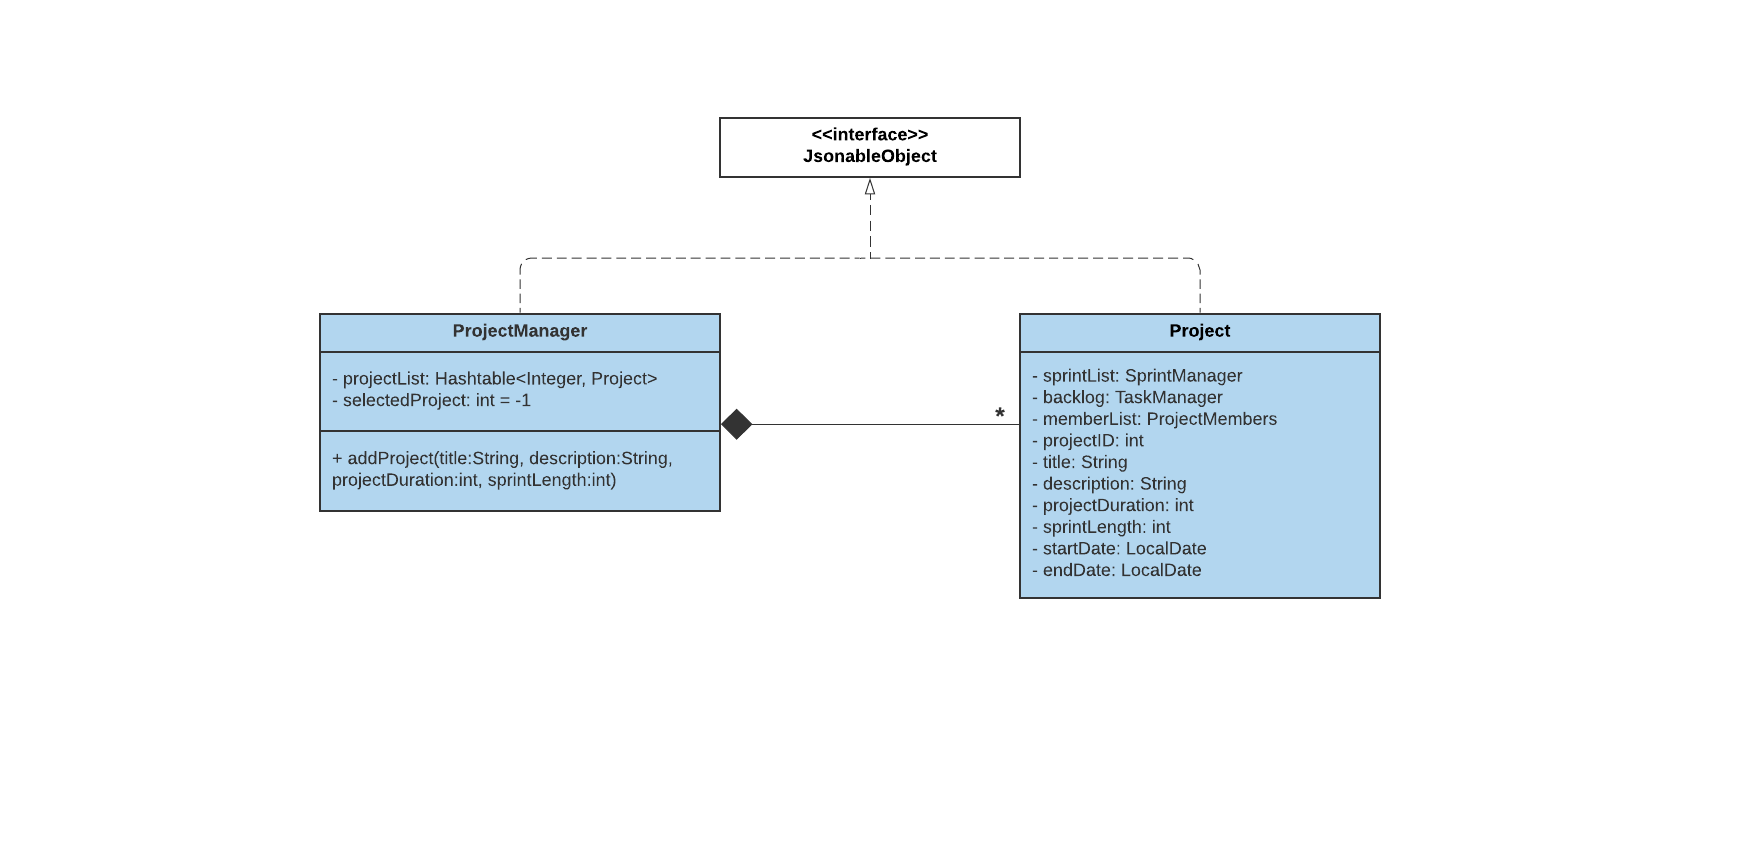
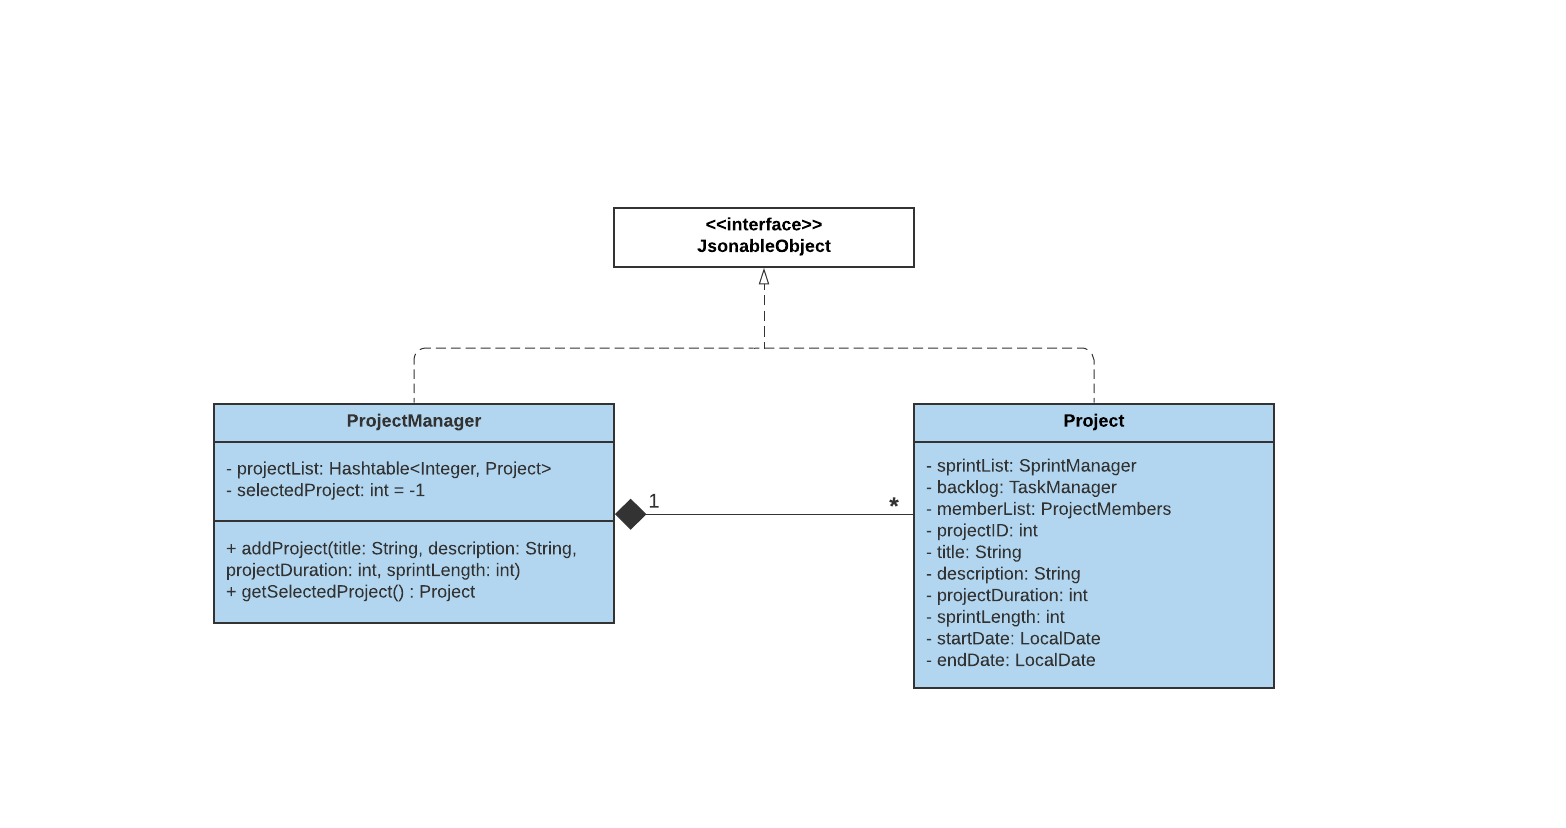
added diagram

diff --git a/src/main/java/seedu/duke/command/project/CreateProjectCommand.java b/src/main/java/seedu/duke/command/project/CreateProjectCommand.java
@@ -50,12 +50,12 @@ public class CreateProjectCommand extends ProjectCommand {
         }
         projectManager.addProject(title, description, duration, sd);
         Ui.showToUserLn("Project successfully created.");
-        printCreatedProject(projectManager);
+        Project addedProj = projectManager.getSelectedProject();
+        printCreatedProject(addedProj);
 
     }
 
-    private void printCreatedProject(ProjectManager projectManager) {
-        Project addProj = projectManager.getSelectedProject();
+    private void printCreatedProject(Project addProj) {
         Ui.showToUserLn("\tTitle: " + addProj.getTitle());
     }
 
